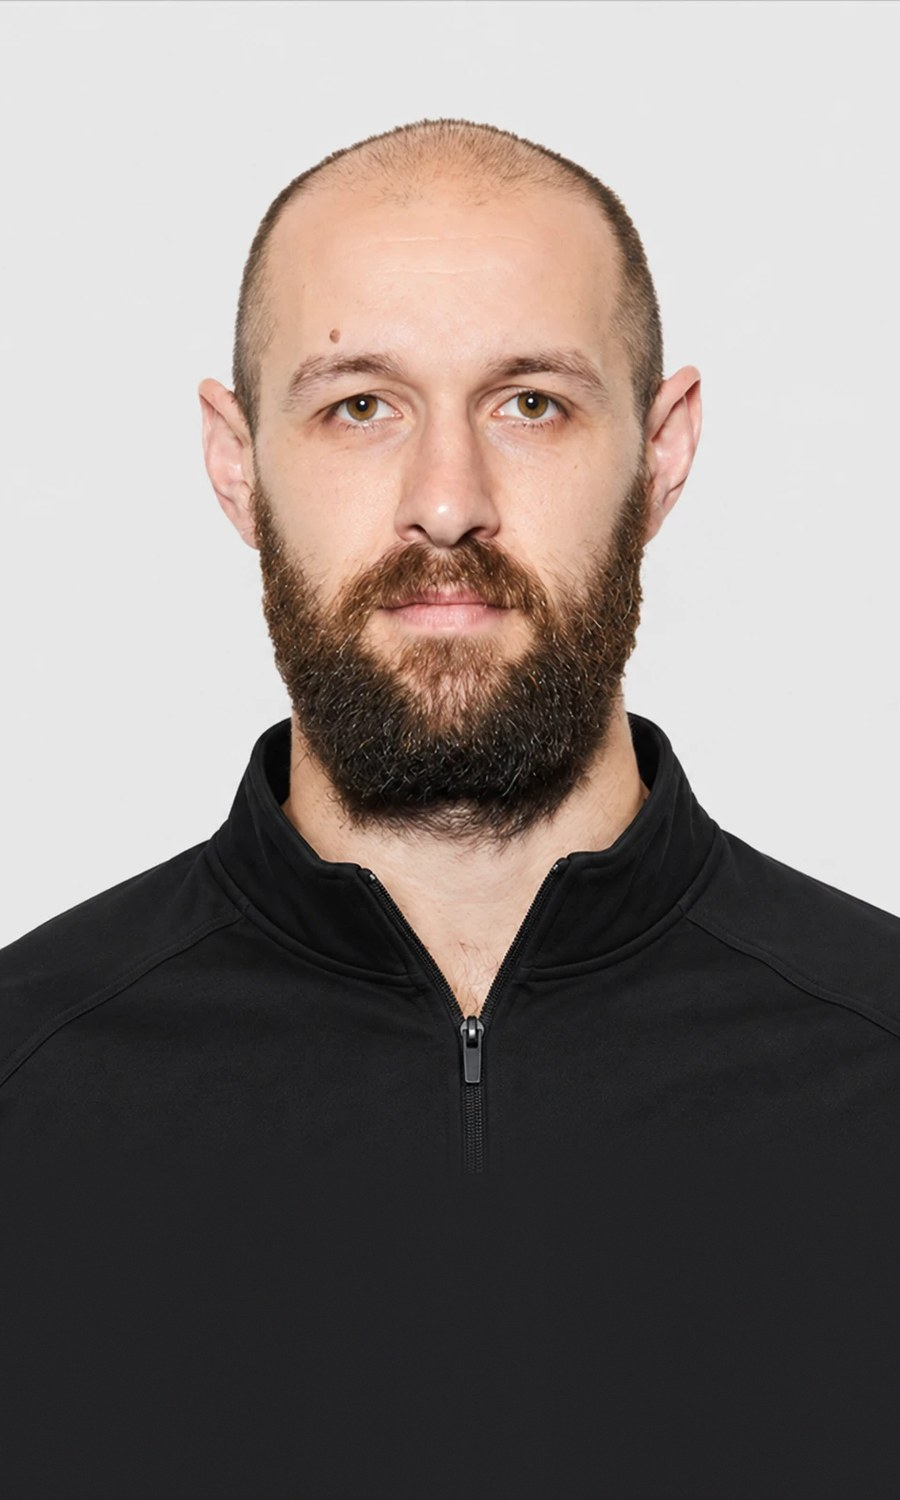
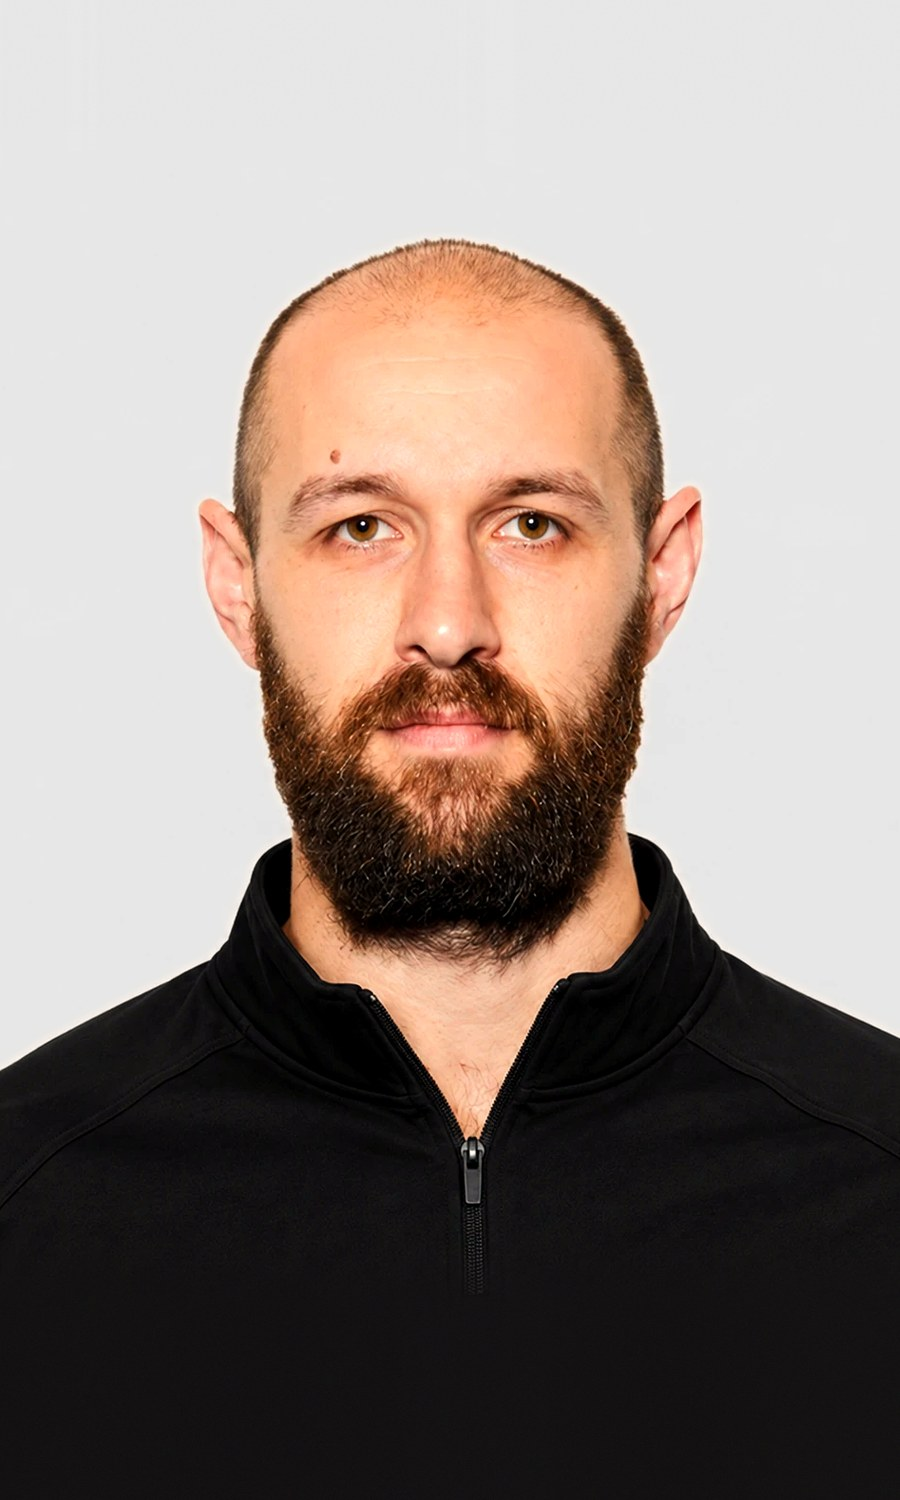
About: Rhys headshot color correction, lower in frame to match Johnny

diff --git a/about.html b/about.html
@@ -432,7 +432,7 @@ src="https://www.facebook.com/tr?id=846020845059569&ev=PageView&noscript=1"
       <div class="coach-card coach-card--7">
         <div class="coach-card-frame">
           <div class="coach-card-photo photo">
-            <img src="images/coach-rhys-martin.jpg" alt="Rhys Martin, Senior Basketball Trainer at The Courts" width="900" height="1500" loading="lazy" decoding="async">
+            <img src="images/coach-rhys-martin.jpg?v=2" alt="Rhys Martin, Senior Basketball Trainer at The Courts" width="900" height="1500" loading="lazy" decoding="async">
             <span class="coach-card-corner"></span>
           </div>
           <div class="coach-card-body">
